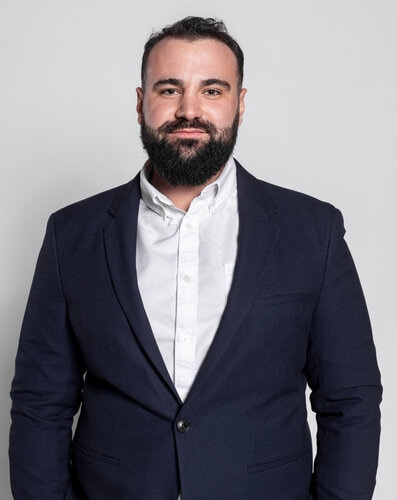
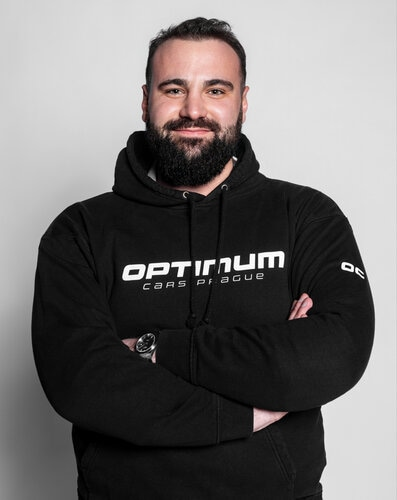
final

diff --git a/our-team.html b/our-team.html
@@ -60,9 +60,15 @@
     <div class="person col-12 col-lg-6 col-xl-4">
         <div class="image-wrapper">
             <img src="images/jakub-hosek.png" />
-            <div class="image-text">
-                Filip je zodpovědný za bezproblémový chod logistiky, tedy zavyzvedávání a doručování vozidel na základě přání našich klientů a zajišťování externích řidičů.
+
+            <div class="image-inner-wrapper">
+                <div class="image-text">
+                    Filip je zodpovědný za bezproblémový chod logistiky, tedy zavyzvedávání a doručování vozidel na základě přání našich klientů a zajišťování externích řidičů.
+                </div>
+                <img src="images/jakub-hosek-formal.jpg" class="image-wrapper-formal"/>
+
             </div>
+
         </div>
         <div class="text-wrapper">
         <div class="text-name">Jakub Hošek</div>
@@ -74,9 +80,15 @@
         <div class="person col-12 col-lg-6 col-xl-4">
             <div class="image-wrapper">
                 <img src="images/filip-shon.png" />
-                <div class="image-text">
-                    Filip je zodpovědný za bezproblémový chod logistiky, tedy zavyzvedávání a doručování vozidel na základě přání našich klientů a zajišťování externích řidičů.
+
+                <div class="image-inner-wrapper">
+                    <div class="image-text">
+                        Filip je zodpovědný za bezproblémový chod logistiky, tedy zavyzvedávání a doručování vozidel na základě přání našich klientů a zajišťování externích řidičů.
+                    </div>
+                    <img src="images/filip-shon-formal.jpg" class="image-wrapper-formal"/>
+
                 </div>
+
             </div>
             <div class="text-wrapper">
             <div class="text-name">Filip Schön</div>
@@ -88,9 +100,15 @@
         <div class="person col-12 col-lg-6 col-xl-4">
             <div class="image-wrapper">
                 <img src="images/filip-karlik.jpg" />
-                <div class="image-text">
-                    Filip je zodpovědný za bezproblémový chod logistiky, tedy zavyzvedávání a doručování vozidel na základě přání našich klientů a zajišťování externích řidičů.
+
+                <div class="image-inner-wrapper">
+                    <div class="image-text">
+                        Filip je zodpovědný za bezproblémový chod logistiky, tedy zavyzvedávání a doručování vozidel na základě přání našich klientů a zajišťování externích řidičů.
+                    </div>
+                    <img src="images/filip-karlik-formal.jpg" class="image-wrapper-formal"/>
+
                 </div>
+
             </div>
             <div class="text-wrapper">
             <div class="text-name">Filip Karlík</div>
@@ -102,9 +120,15 @@
         <div class="person col-12 col-lg-6 col-xl-4">
             <div class="image-wrapper">
                 <img src="images/petra-hoskova.png" />
-                <div class="image-text">
-                    Filip je zodpovědný za bezproblémový chod logistiky, tedy zavyzvedávání a doručování vozidel na základě přání našich klientů a zajišťování externích řidičů.
+
+                <div class="image-inner-wrapper">
+                    <div class="image-text">
+                        Filip je zodpovědný za bezproblémový chod logistiky, tedy zavyzvedávání a doručování vozidel na základě přání našich klientů a zajišťování externích řidičů.
+                    </div>
+                    <img src="images/petra-hoskova-formal.jpg" class="image-wrapper-formal"/>
+
                 </div>
+
             </div>
             <div class="text-wrapper">
                 <div class="text-name">Petra Hošková</div>
@@ -156,9 +180,15 @@
         <div class="person col-12 col-lg-6 col-xl-4">
             <div class="image-wrapper">
                 <img src="images/martin-reich.png" />
-                <div class="image-text">
-                    Filip je zodpovědný za bezproblémový chod logistiky, tedy zavyzvedávání a doručování vozidel na základě přání našich klientů a zajišťování externích řidičů.
+
+                <div class="image-inner-wrapper">
+                    <div class="image-text">
+                        Filip je zodpovědný za bezproblémový chod logistiky, tedy zavyzvedávání a doručování vozidel na základě přání našich klientů a zajišťování externích řidičů.
+                    </div>
+                    <img src="images/martin-reich-formal.jpg" class="image-wrapper-formal"/>
+
                 </div>
+
             </div>
             <div class="text-wrapper">
                 <div class="text-name">Martin Reich</div>

diff --git a/css/styles-our-team.css b/css/styles-our-team.css
@@ -114,6 +114,16 @@
 
 .image-wrapper img{
     max-width: 100%;
+    position: absolute;
+    top: 0;
+    left: 0;
+}
+
+.image-wrapper-formal{
+    z-index: 4;
+    position: absolute;
+    top: 0;
+    left: 0;
 }
 
 .image-text{
@@ -124,16 +134,26 @@
     width: 100%;
     height: 100%;
     background: linear-gradient(0deg, rgba(0,0,0,1) 0%, rgba(0,0,0,0.95) 20%, rgba(0,0,0,0.2) 80%, rgba(0,0,0,0.2) 100%);
-    opacity: 0;
-    transition: opacity 0.3s ease-in-out;
-    &:hover {
-        opacity: 1;
-    }
+
+    z-index: 6;
     cursor: pointer;
     font-size: 14px;
     padding: 20px;
     display: flex;
     align-items: end;
+}
+
+.image-inner-wrapper{
+    position: relative;
+    z-index: 5;
+    opacity: 0;
+    width: 100%;
+    height: 100%;
+    transition: opacity 0.3s ease-in-out;
+
+    &:hover {
+        opacity: 1;
+    }
 }
 
 .our-team-section{
